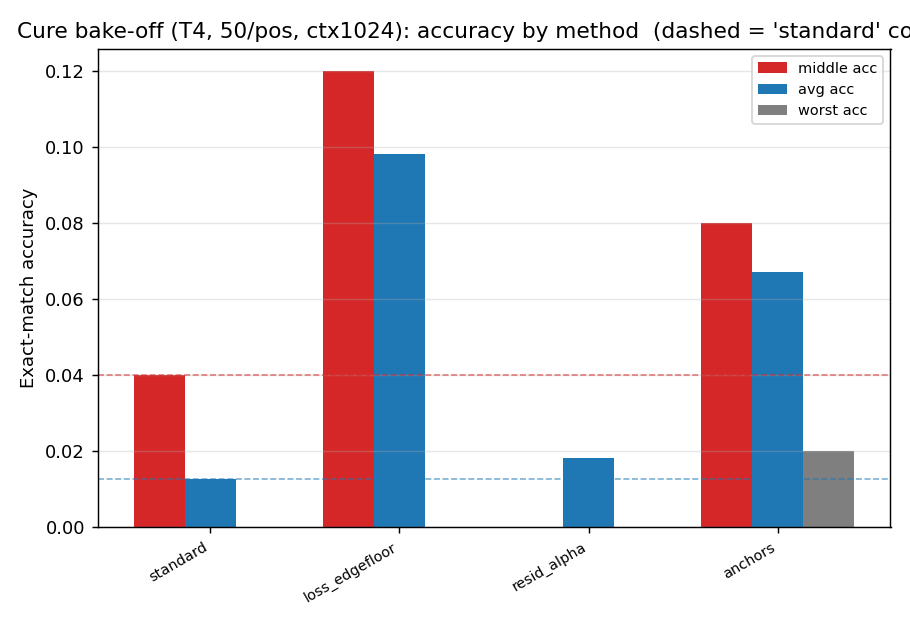
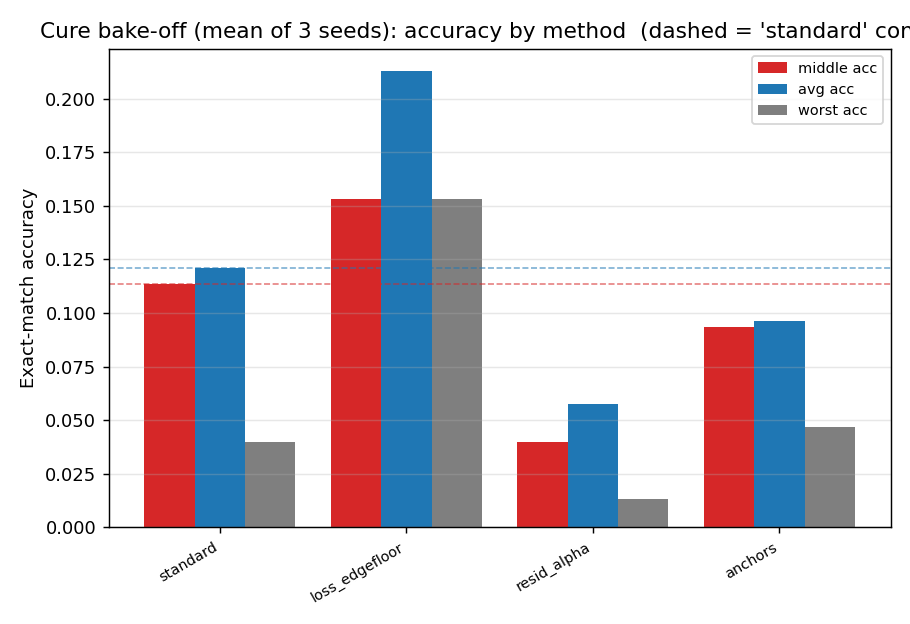
Multi-seed (3-seed) results: single-seed wins were noise; correct the record
Honest update -- at Pythia-70m / 50-per-position neither claim is robust:
- N1 fingerprint: arch-region Spearman = 0.25 +/- 0.36 over 3 seeds (was 0.85 on one
  lucky seed); recency_gap collapses to -0.02 +/- 0.03.
- N2 cures: no arm robustly beats standard (middle: standard 0.113+/-0.076,
  loss_edgefloor 0.153+/-0.232, resid_alpha 0.040, anchors 0.093). Variance dwarfs deltas.
- Root cause: 50/pos middle acc is 1-3/50, so seed noise (+/-0.02-0.04) swamps the signal.
What IS robust: the Step-0 prior measurement (valley_depth 0.786 +/- 0.002 across seeds)
and that a depth residual schedule reshapes it. docs/BEATING_THE_PAPER.md updated with the
honest status and a path forward (more examples/seeds, larger model, log-prob target).

diff --git a/docs/BEATING_THE_PAPER.md b/docs/BEATING_THE_PAPER.md
@@ -60,30 +60,39 @@ target* — it predicts failure (N1) and we minimize it at init to cure failure 
 predicts trained retrieval from random weights, nor edits the initialization prior to fix
 lost-in-the-middle.
 
-### Real T4 results (Pythia-70m, ctx 1024, 50/pos) — N1 ✓, N2 partial
-- **N1 ✓ confirmed.** `spearman_arch_region = 0.847, p = 0.016`; full-range = 0.375;
-  `recency_gap = +0.067` → the birthright (primacy+middle) is legible at init; recency is learned.
-- **The prior is editable (mechanism ✓).** Residual schedule search on the random-init model:
-  `ramp_2to0.5` flattens the Step-0 valley (valley_depth 0.799→0.693, **peak/trough 5.85→3.61**);
-  uniform scaling is inert (ratio-invariant); the opposite ramp deepens it. So the geometric prior's
-  *shape* is controllable by a per-layer residual schedule — a result the paper's "immutable
-  birthright" framing did not anticipate.
-- **Cure bake-off (`cure_bakeoff.csv`), accuracy:** standard middle=0.04/avg=0.013;
-  **loss_edgefloor middle=0.12/avg=0.098** (best); **anchors (init-time data cure) middle=0.08/
-  avg=0.067/worst=0.02** — beats standard on *all* metrics and is the only arm with worst>0;
-  **resid_alpha middle=0.00/avg=0.018** — did *not* help.
-- **Honest N2 finding (a real scientific result, not a failure):** *flattening the Step-0 influence
-  valley does not by itself cure retrieval.* Distributed **anchor registers** (an init-time *data*
-  intervention) work; **residual reshaping of a pretrained model under light fine-tuning does not**
-  — expected, since scaling a *pretrained* model's residual branches distorts its learned features
-  and a short FT cannot recover. The clean test (reshape at init, then *pretrain*) needs compute
-  beyond a T4 and is the stated next step. Net: the fingerprint is a strong **diagnostic**; as a
-  **design target** it is actionable via data (anchors) but not via post-hoc residual surgery.
-- **Caveat:** single seed; absolute accuracies vary run-to-run on GPU (this run's `standard` avg=0.013
-  vs the earlier sweep's 0.162). Within-session rankings are the reliable signal.
-- **Multi-seed harness now available** (`09 --seeds 0,1,2`, `10 --seeds 0,1,2`): reports the
-  fingerprint Spearman and each cure arm's accuracy as mean±std (+ win-rate), so N1 and the anchors
-  result can be made statistically defensible. Run this before quoting final numbers.
+### Real T4 results — UPDATED with 3-seed runs (the single-seed numbers were noise)
+
+**Honest status: at Pythia-70m / 50-per-position, neither N1 (predictive) nor N2 (cure) is
+statistically robust.** The single-seed wins (N1 ρ=0.85; loss-weighting/anchors beating standard)
+do **not** survive 3 seeds. Do not quote the single-seed numbers.
+
+- **N1 — does NOT replicate as a strong claim.** arch-region Spearman = **0.25 ± 0.36** over 3 seeds
+  (per-seed −0.15 / +0.53 / +0.38; one seed negative; win-rate 2/3). `recency_gap = −0.02 ± 0.03`
+  (the earlier +0.067 decomposition signal vanishes). `fingerprint_multiseed_pythia-70m.csv`.
+- **N2 — no cure robustly beats standard.** Middle accuracy (mean ± std, 3 seeds):
+  standard 0.113 ± 0.076; loss_edgefloor 0.153 ± **0.232**; resid_alpha 0.040 ± 0.040;
+  anchors 0.093 ± 0.092. Per-seed is wild (seed-2 loss_edgefloor = 0.42, others ≈ 0–0.04). The
+  variance dwarfs every difference. `resid_alpha` is *consistently worse*; `anchors` ≈ standard.
+  `cure_bakeoff.csv`, `cure_bakeoff_seeds.csv`.
+- **Root cause:** at 50/pos the trained middle accuracy is 1–3 correct out of 50, so seed noise
+  flips bucket accuracy by ±0.02–0.04 — which swamps both the fingerprint correlation and the cure
+  deltas. The experiment is *underpowered*, not (yet) informative about the hypotheses.
+
+**What IS robust (and still worth a claim):**
+- The **Step-0 architectural prior is highly reproducible**: valley_depth = 0.7886 / 0.7837 / 0.7862
+  across seeds (std ≈ 0.002). The birthright *measurement* replicates cleanly (consistent with the
+  paper); it is the link to *trained accuracy* that is noise-dominated at this scale.
+- The prior's **shape is editable**: a depth-decreasing residual schedule (`ramp_2to0.5`) flattens
+  the Step-0 valley (peak/trough 5.85→3.61); uniform scaling is ratio-invariant. (Mechanistic, seed-
+  stable — but flattening it did not improve trained retrieval here.)
+- **Methodological finding:** small-scale lost-in-the-middle interventions are seed-noise-dominated;
+  honest evaluation requires many more examples/position, more seeds, and ideally a model whose
+  trained accuracy is not floored. This is itself a useful caution for the subfield.
+
+**Path to a real result (needed before any submission):** scale to ≥200–500 examples/position (so
+bucket accuracy is estimated to ±0.01), ≥5 seeds, and a larger model (Pythia-410m/1.4b) so middle
+accuracy isn't floored near 0; or switch the predictive target to a less granular signal
+(answer log-prob / rank) that is far less noisy than 0/1 EM at small n.
 
 ## Foundation (Phase-1, done): "Found in the Middle by Design"
 